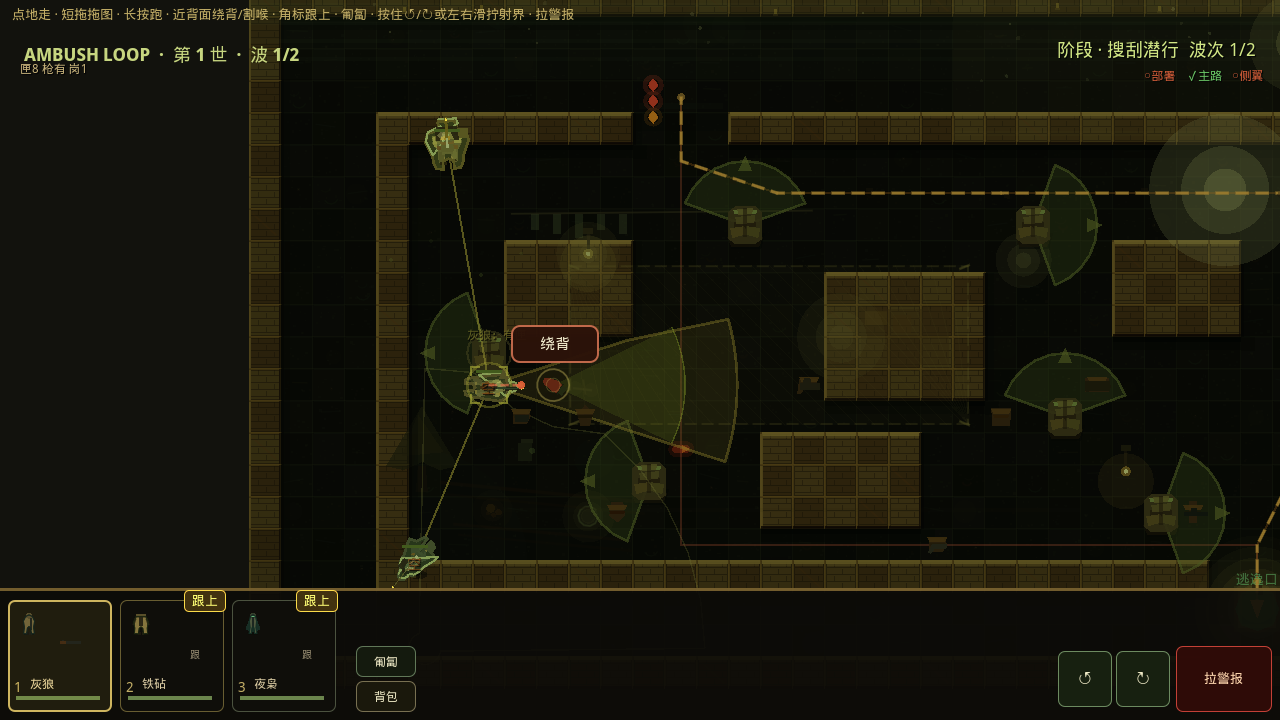
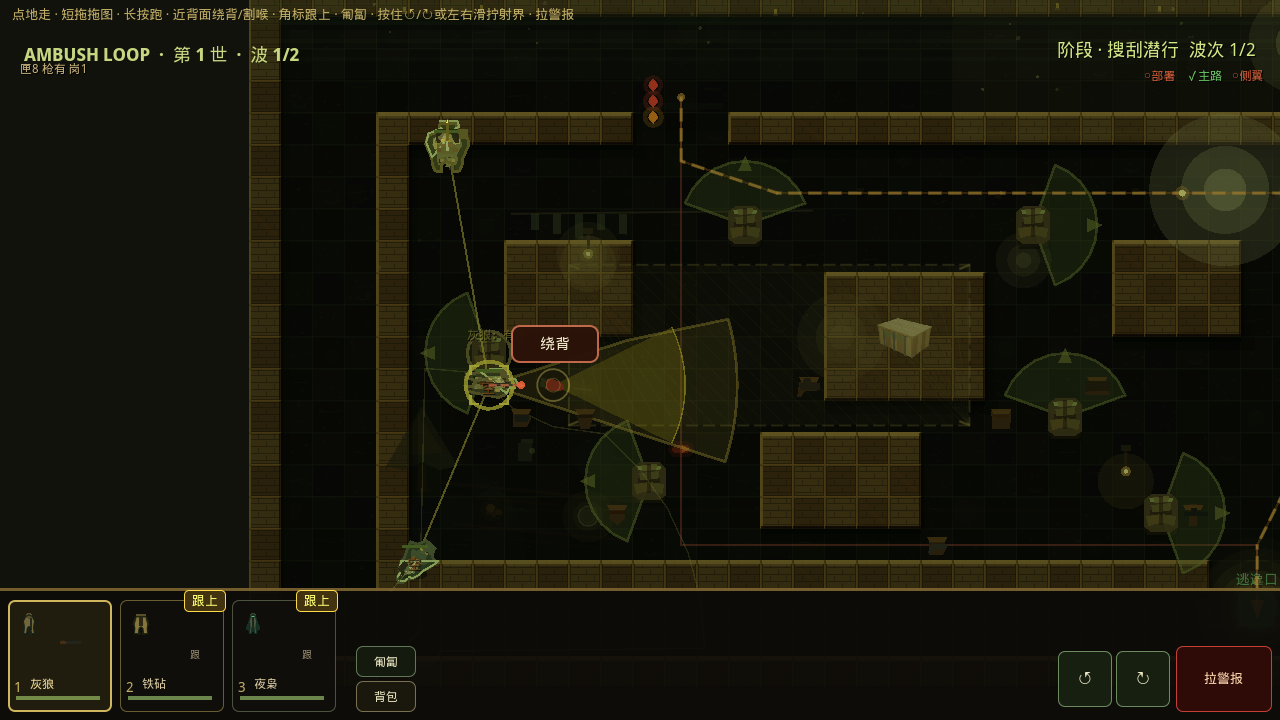
feat(look): Blender yard crate sprite in the playable courtyard
Wire ArtSource yard_crate_iso.png onto the (19,10) crate island. GLB
remains the source of truth. RAID / dest / kit_range unchanged.

Review: eval_touch_ux/01_scout_touch_simple.png — pine strapped crate
sits on the hatched court. SMOKE_OK_PROPS token yard_crate_iso.

diff --git a/ambush_loop/docs/CHANGELOG.md b/ambush_loop/docs/CHANGELOG.md
@@ -16,6 +16,10 @@ Same RAID as 0.5.41. Dump-found yard scrape: 跟 chip was 36×18; 开匣 sat lef
 ### Android
 - `versionName` 0.5.42 / `versionCode` 48.
 
+## Look — Blender yard crate in the playable courtyard
+
+`blender-headless` crate iso bake is now a sprite on the courtyard island (19,10). GLB in ArtSource stays the source of truth. Review: `eval_touch_ux/01_scout_touch_simple.png` — pine crate with iron straps on the hatched court, not three brown rects.
+
 ## 0.5.41 — Engine: west trio file tape (span 6 kept)
 
 Sideload APK: `dist/AmbushLoop-v0.5.41-touch-slide.apk`  
